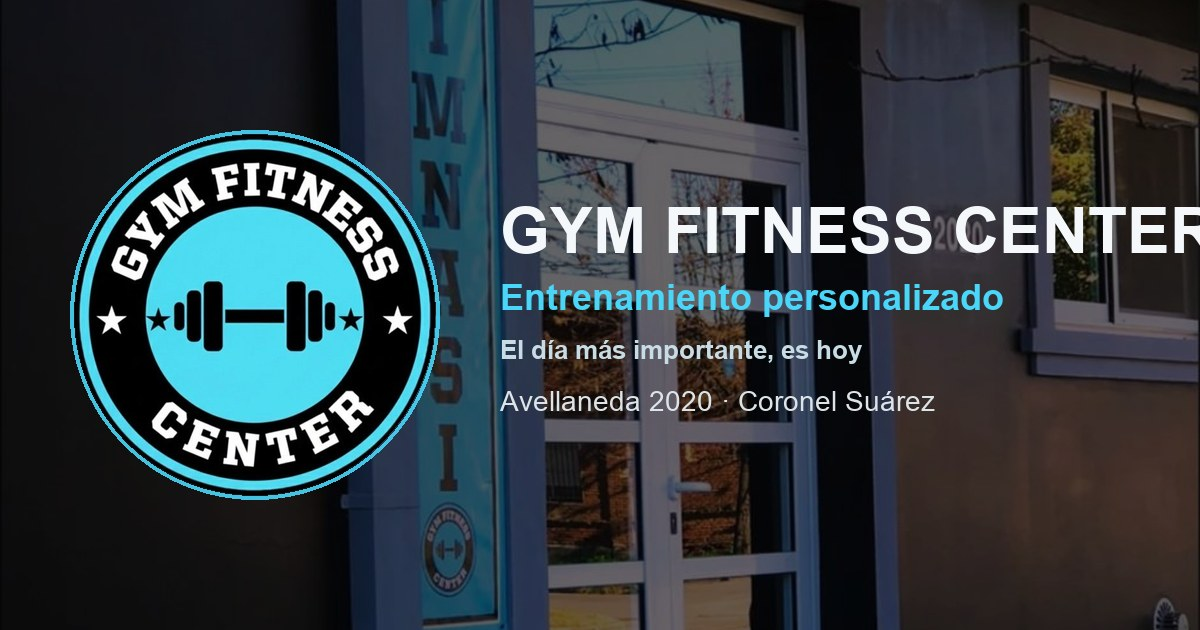
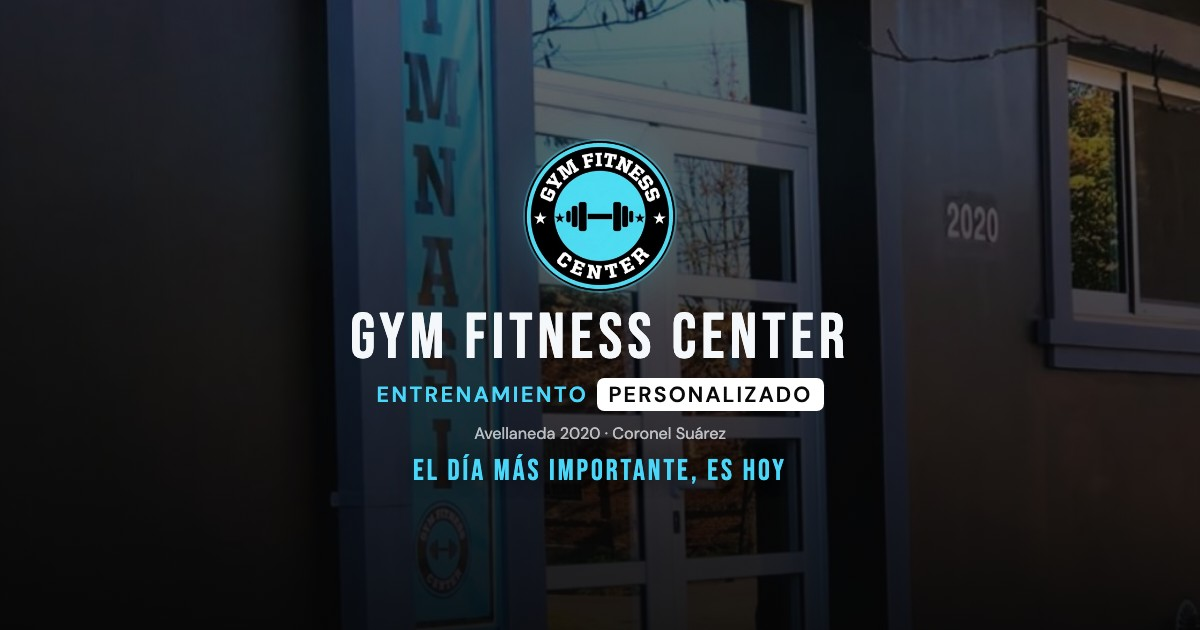
Auto-generated commit

diff --git a/404.html b/404.html
@@ -50,19 +50,19 @@
   <meta property="og:url" content="https://gymfitnesscenter.com/">
   <meta property="og:title" content="Gimnasio en Coronel Suárez | Gym Fitness Center (GFC)">
   <meta property="og:description" content="Entrenamiento personalizado en Avellaneda 2020, Coronel Suárez. El día más importante, es hoy. Horarios, mapa y WhatsApp.">
-  <meta property="og:image" content="https://gymfitnesscenter.com/og-share.jpg?v=20260914c">
-  <meta property="og:image:secure_url" content="https://gymfitnesscenter.com/og-share.jpg?v=20260914c">
+  <meta property="og:image" content="https://gymfitnesscenter.com/og-gfc-hero.jpg?v=20260914d">
+  <meta property="og:image:secure_url" content="https://gymfitnesscenter.com/og-gfc-hero.jpg?v=20260914d">
   <meta property="og:image:type" content="image/jpeg">
   <meta property="og:image:width" content="1200">
   <meta property="og:image:height" content="630">
   <meta property="og:image:alt" content="Gym Fitness Center — entrenamiento personalizado en Coronel Suárez">
 
-  <link rel="image_src" href="https://gymfitnesscenter.com/og-share.jpg?v=20260914c">
+  <link rel="image_src" href="https://gymfitnesscenter.com/og-gfc-hero.jpg?v=20260914d">
 
   <meta name="twitter:card" content="summary_large_image">
   <meta name="twitter:title" content="Gimnasio en Coronel Suárez | Gym Fitness Center (GFC)">
   <meta name="twitter:description" content="Entrenamiento personalizado en Avellaneda 2020, Coronel Suárez. El día más importante, es hoy.">
-  <meta name="twitter:image" content="https://gymfitnesscenter.com/og-share.jpg?v=20260914c">
+  <meta name="twitter:image" content="https://gymfitnesscenter.com/og-gfc-hero.jpg?v=20260914d">
   <meta name="twitter:image:alt" content="Gym Fitness Center — entrenamiento personalizado en Coronel Suárez">
 
   <link rel="icon" type="image/png" sizes="32x32" href="favicon-32.png">
@@ -82,10 +82,10 @@
     "telephone": "+542926517868",
     "priceRange": "Consultar",
     "image": [
-      "https://gymfitnesscenter.com/og-share.jpg?v=20260914c",
+      "https://gymfitnesscenter.com/og-gfc-hero.jpg?v=20260914d",
       "https://gymfitnesscenter.com/fachada-gfc-avellaneda-2020.jpg"
     ],
-    "logo": "https://gymfitnesscenter.com/og-share.jpg?v=20260914c",
+    "logo": "https://gymfitnesscenter.com/gymfino.jpg",
     "address": {
       "@type": "PostalAddress",
       "streetAddress": "Avellaneda 2020",
@@ -184,8 +184,8 @@
     ]
   }
   </script>
-<style>*,*:before,*:after{box-sizing:border-box}html,body{margin:0;min-height:100%}body{background:#050505;font-family:DM Sans,sans-serif;-webkit-font-smoothing:antialiased}</style><link rel="stylesheet" href="styles-23UE4EIG.css?v=1789349475" media="print" onload="this.media='all'"><noscript><link rel="stylesheet" href="styles-23UE4EIG.css?v=1789349475"></noscript></head>
+<style>*,*:before,*:after{box-sizing:border-box}html,body{margin:0;min-height:100%}body{background:#050505;font-family:DM Sans,sans-serif;-webkit-font-smoothing:antialiased}</style><link rel="stylesheet" href="styles-23UE4EIG.css?v=1789350567" media="print" onload="this.media='all'"><noscript><link rel="stylesheet" href="styles-23UE4EIG.css?v=1789350567"></noscript></head>
 <body>
   <app-root></app-root>
-<script src="main-SRQRFXPF.js?v=1789349475" type="module"></script></body>
+<script src="main-SRQRFXPF.js?v=1789350567" type="module"></script></body>
 </html>

diff --git a/index.html b/index.html
@@ -50,19 +50,19 @@
   <meta property="og:url" content="https://gymfitnesscenter.com/">
   <meta property="og:title" content="Gimnasio en Coronel Suárez | Gym Fitness Center (GFC)">
   <meta property="og:description" content="Entrenamiento personalizado en Avellaneda 2020, Coronel Suárez. El día más importante, es hoy. Horarios, mapa y WhatsApp.">
-  <meta property="og:image" content="https://gymfitnesscenter.com/og-share.jpg?v=20260914c">
-  <meta property="og:image:secure_url" content="https://gymfitnesscenter.com/og-share.jpg?v=20260914c">
+  <meta property="og:image" content="https://gymfitnesscenter.com/og-gfc-hero.jpg?v=20260914d">
+  <meta property="og:image:secure_url" content="https://gymfitnesscenter.com/og-gfc-hero.jpg?v=20260914d">
   <meta property="og:image:type" content="image/jpeg">
   <meta property="og:image:width" content="1200">
   <meta property="og:image:height" content="630">
   <meta property="og:image:alt" content="Gym Fitness Center — entrenamiento personalizado en Coronel Suárez">
 
-  <link rel="image_src" href="https://gymfitnesscenter.com/og-share.jpg?v=20260914c">
+  <link rel="image_src" href="https://gymfitnesscenter.com/og-gfc-hero.jpg?v=20260914d">
 
   <meta name="twitter:card" content="summary_large_image">
   <meta name="twitter:title" content="Gimnasio en Coronel Suárez | Gym Fitness Center (GFC)">
   <meta name="twitter:description" content="Entrenamiento personalizado en Avellaneda 2020, Coronel Suárez. El día más importante, es hoy.">
-  <meta name="twitter:image" content="https://gymfitnesscenter.com/og-share.jpg?v=20260914c">
+  <meta name="twitter:image" content="https://gymfitnesscenter.com/og-gfc-hero.jpg?v=20260914d">
   <meta name="twitter:image:alt" content="Gym Fitness Center — entrenamiento personalizado en Coronel Suárez">
 
   <link rel="icon" type="image/png" sizes="32x32" href="favicon-32.png">
@@ -82,10 +82,10 @@
     "telephone": "+542926517868",
     "priceRange": "Consultar",
     "image": [
-      "https://gymfitnesscenter.com/og-share.jpg?v=20260914c",
+      "https://gymfitnesscenter.com/og-gfc-hero.jpg?v=20260914d",
       "https://gymfitnesscenter.com/fachada-gfc-avellaneda-2020.jpg"
     ],
-    "logo": "https://gymfitnesscenter.com/og-share.jpg?v=20260914c",
+    "logo": "https://gymfitnesscenter.com/gymfino.jpg",
     "address": {
       "@type": "PostalAddress",
       "streetAddress": "Avellaneda 2020",
@@ -184,8 +184,8 @@
     ]
   }
   </script>
-<style>*,*:before,*:after{box-sizing:border-box}html,body{margin:0;min-height:100%}body{background:#050505;font-family:DM Sans,sans-serif;-webkit-font-smoothing:antialiased}</style><link rel="stylesheet" href="styles-23UE4EIG.css?v=1789349475" media="print" onload="this.media='all'"><noscript><link rel="stylesheet" href="styles-23UE4EIG.css?v=1789349475"></noscript></head>
+<style>*,*:before,*:after{box-sizing:border-box}html,body{margin:0;min-height:100%}body{background:#050505;font-family:DM Sans,sans-serif;-webkit-font-smoothing:antialiased}</style><link rel="stylesheet" href="styles-23UE4EIG.css?v=1789350567" media="print" onload="this.media='all'"><noscript><link rel="stylesheet" href="styles-23UE4EIG.css?v=1789350567"></noscript></head>
 <body>
   <app-root></app-root>
-<script src="main-SRQRFXPF.js?v=1789349475" type="module"></script></body>
+<script src="main-SRQRFXPF.js?v=1789350567" type="module"></script></body>
 </html>
